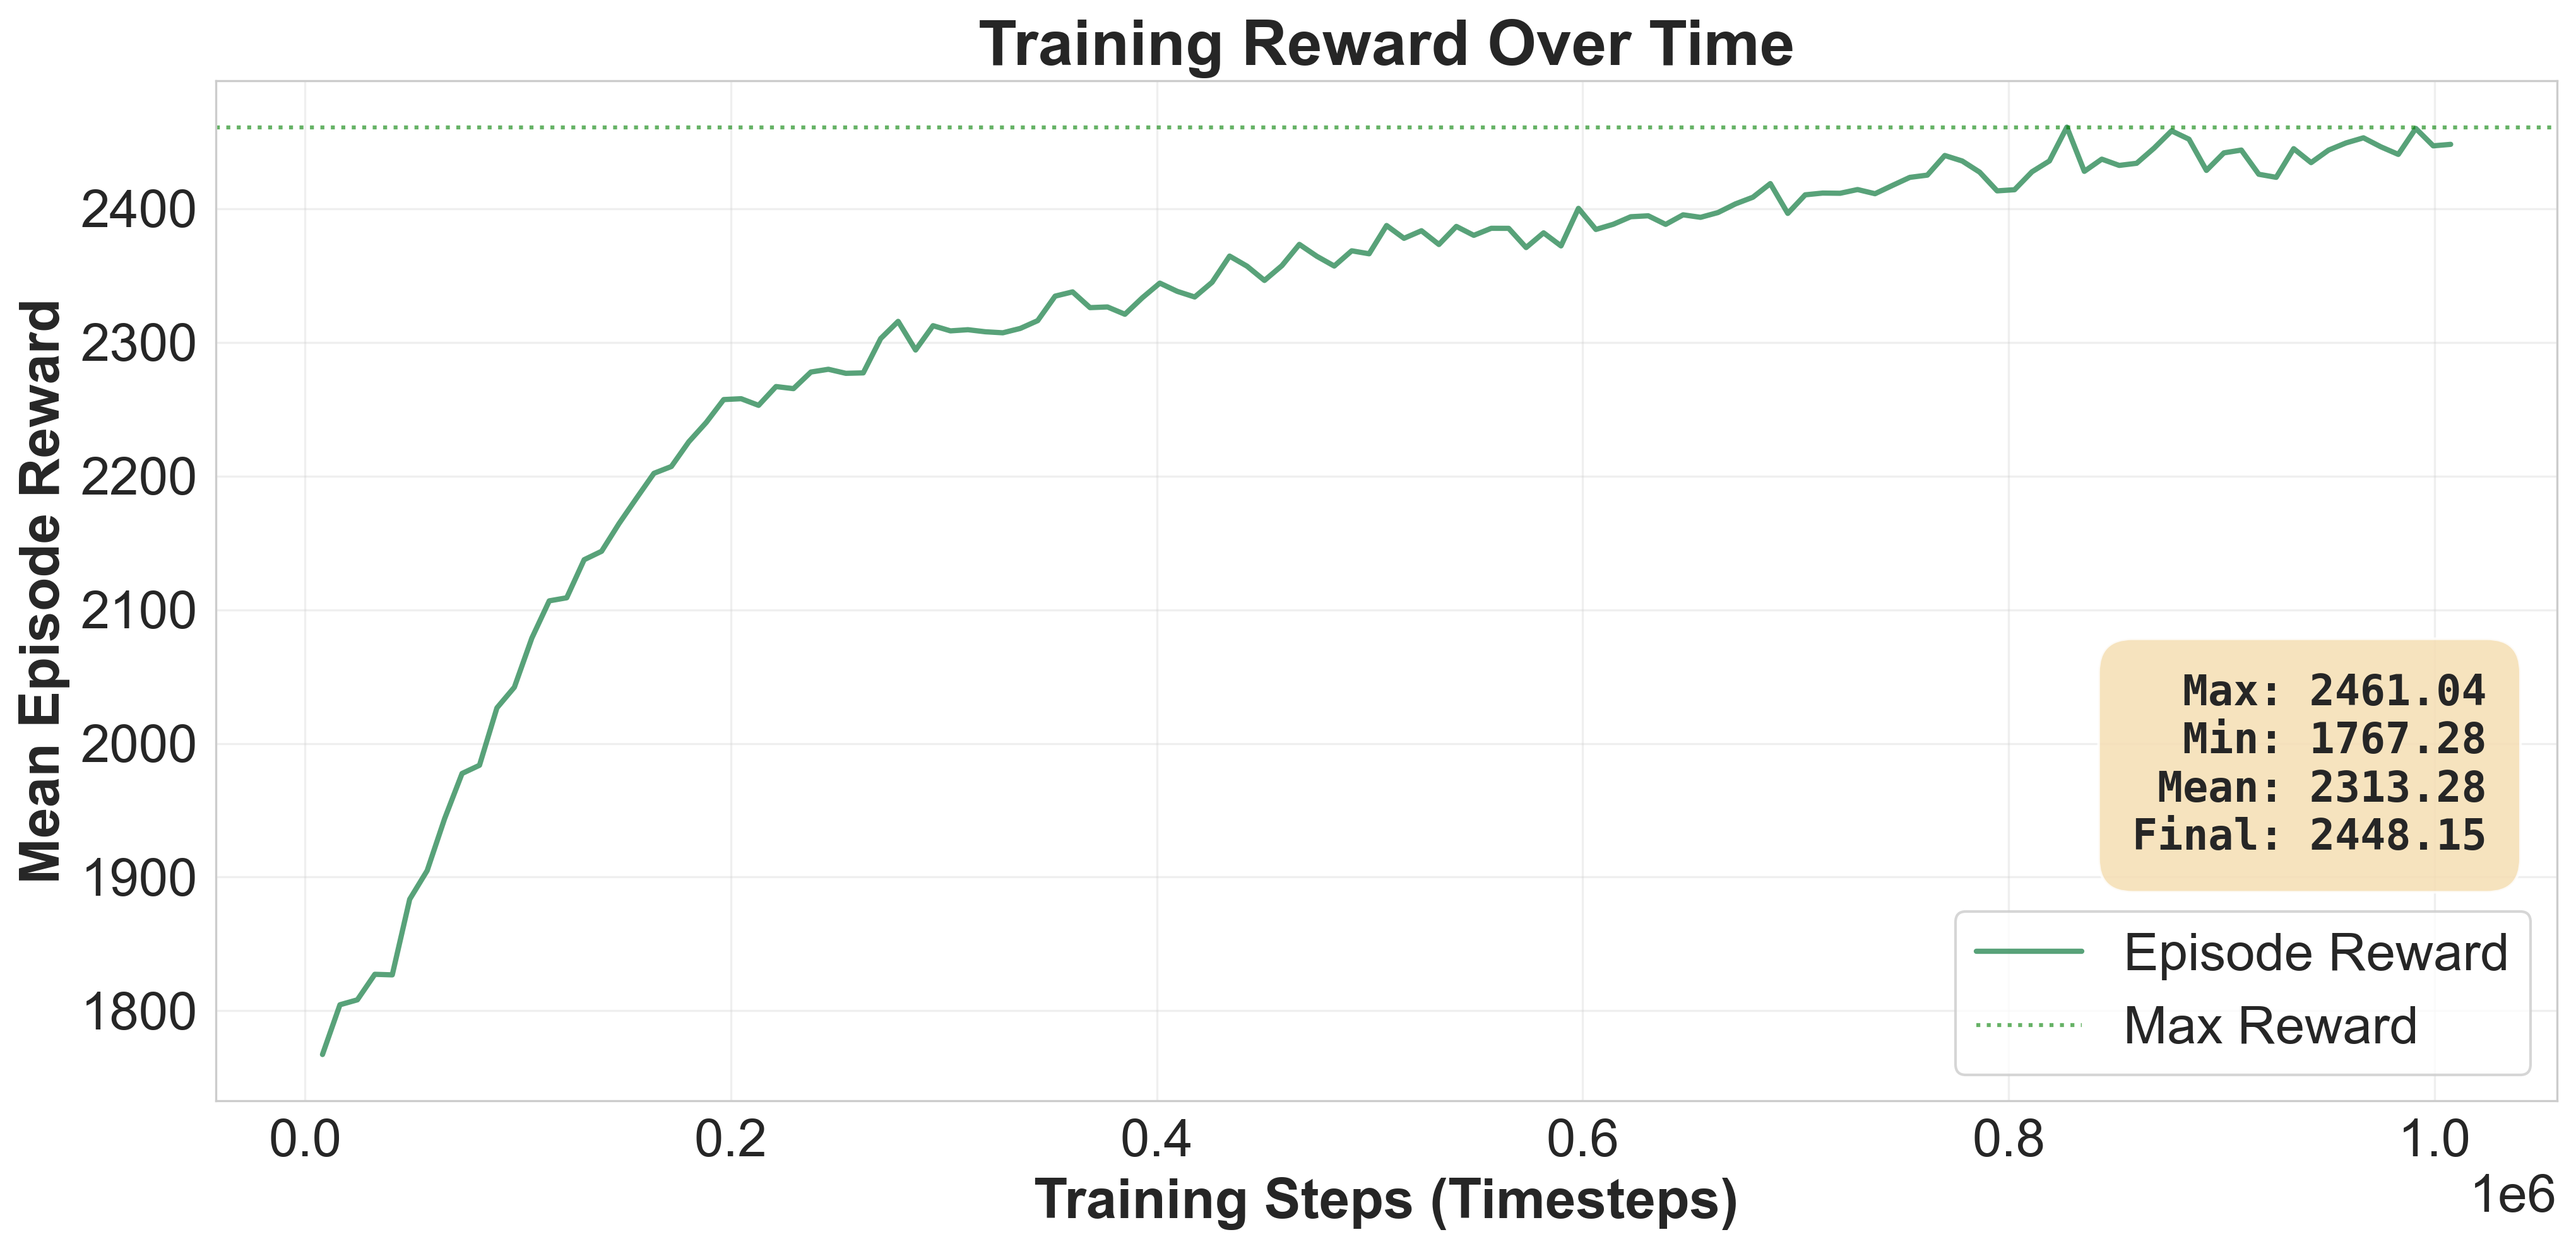
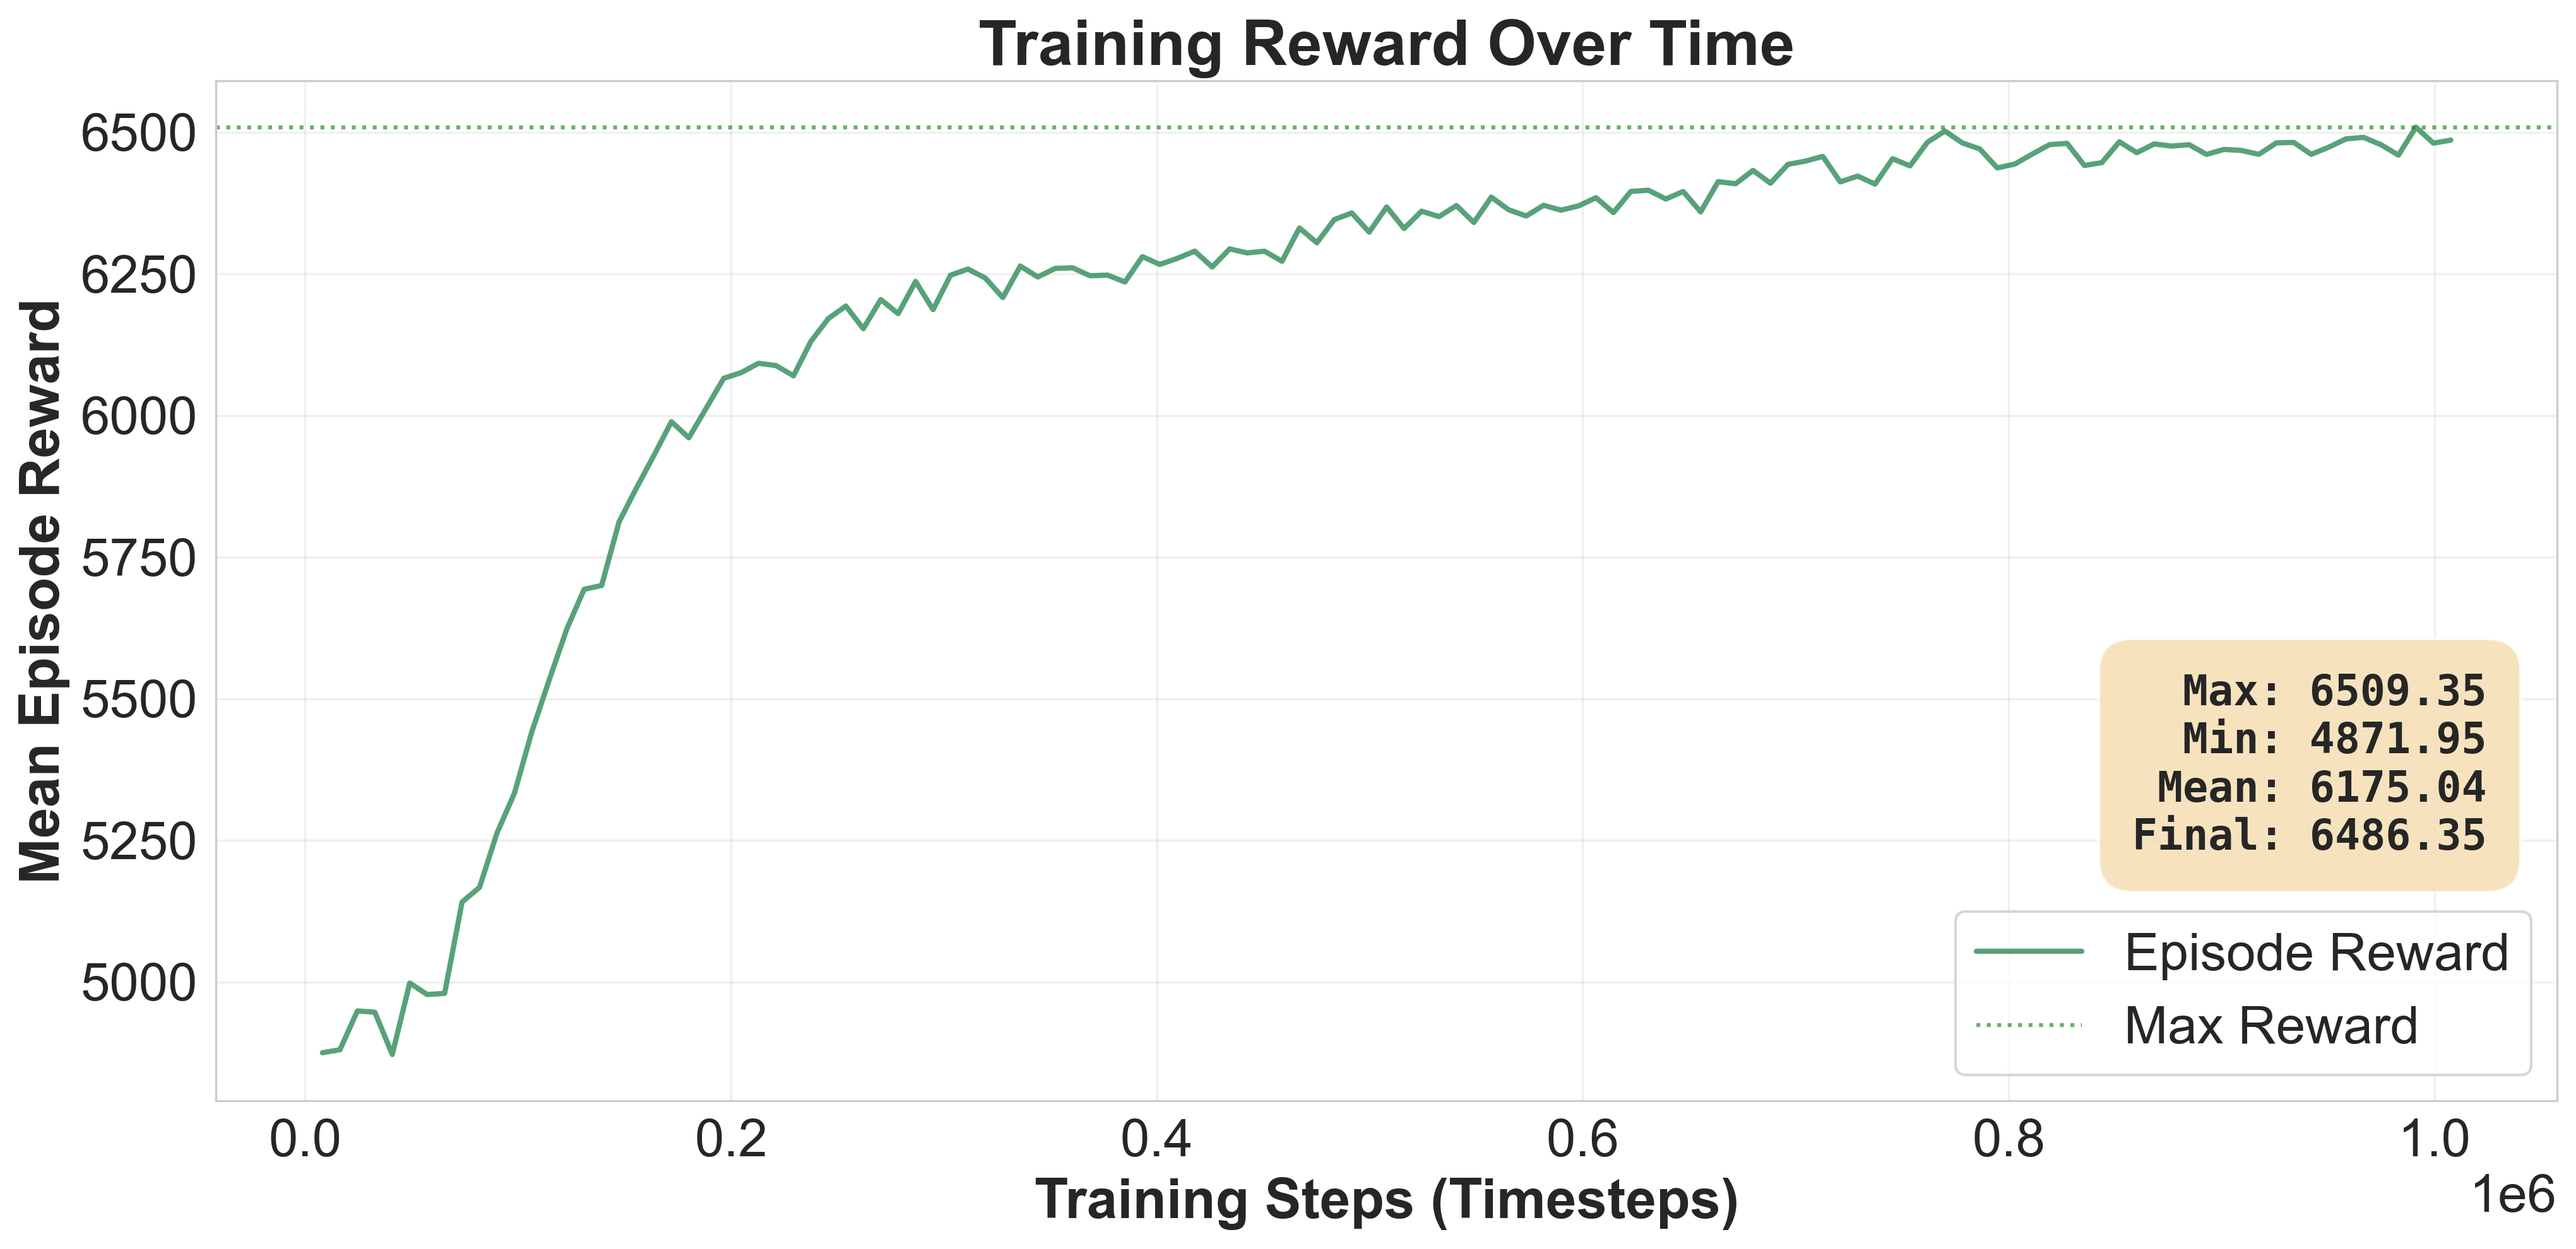
sad

diff --git a/RL_agent/vpp_env.py b/RL_agent/vpp_env.py
@@ -370,7 +370,7 @@ class UrbanVPPEnv(gym.Env):
         if 6 <= hour < 18 and net_solar_surplus > 0:
             # During daytime with solar surplus - force home batteries to charge
             home_batt_avg_soc = np.mean([self.soc[0], self.soc[1]])
-            if home_batt_avg_soc < 0.75:
+            if home_batt_avg_soc < 0.8:
                 # Home batteries not full - share solar surplus with them
                 # Reduce BESS charge intensity to allow home batteries to charge from solar
                 total_home_batt_soc = self.soc[0] + self.soc[1]
@@ -442,9 +442,9 @@ class UrbanVPPEnv(gym.Env):
                 else:
                     # No daytime solar surplus expected - charge from grid during off-peak
                     # For solar unavailable days, MUST charge BESS fully since no daytime solar backup
-                    if bess_soc < 0.7:
-                        # Calculate how much charge is needed (target 0.75 for peak discharge)
-                        energy_deficit = (0.75 - bess_soc) * self.bess_cap  # kWh needed
+                    if bess_soc < 0.8:
+                        # Calculate how much charge is needed (target 0.8 for peak discharge)
+                        energy_deficit = (0.8 - bess_soc) * self.bess_cap  # kWh needed
                         
                         # Calculate remaining off-peak hours for charging (11pm-6am = 7 hours max)
                         if hour >= 23:
@@ -530,7 +530,7 @@ class UrbanVPPEnv(gym.Env):
                 # DAYTIME: Reduce discharge intensity if solar production is high (leads to overvoltage)
                 if total_solar > 0.8 * self.remaining_demand:  # High solar relative to demand
                     # Limit BESS discharge to avoid pushing voltage up
-                    max_bess_discharge = 0.5 * p_max  # Cap at 50% of max power
+                    max_bess_discharge = 0.2 * p_max  # Cap at 20% of max power
                     desired_power = min(desired_power, max_bess_discharge)
                     if self.verbose:
                         print(f"[LIMIT_DISCHARGE] Hour {(self.current_step % 96)/4:.1f}: Limited BESS discharge to {desired_power:.1f}kW (high solar)")
@@ -572,7 +572,7 @@ class UrbanVPPEnv(gym.Env):
                     desired_power = 0.0  # Block discharge outside peak - save for expensive hours
             
             # --- CONSTRAINT 5: Block all battery charging between 11pm-12am ---
-            if 23 <= hour < 24 and desired_power < 0:
+            if 18 <= hour < 24 and desired_power < 0:
                 desired_power = 0.0  # No charging allowed between 11pm-12am
             
             # Limit discharge to actual remaining demand
@@ -719,26 +719,25 @@ class UrbanVPPEnv(gym.Env):
             
             if net_solar_surplus > 0:
                 # Solar surplus available: reward for charging from excess solar
-                # Reduced coefficient from 50 to 25 for stability
-                daytime_solar_bonus += 25.0 * (-total_charge_power)
+                
+                daytime_solar_bonus += 30.0 * (-total_charge_power)
                 
                 # Extra incentive for BESS to absorb community solar (priority target)
                 bess_charge_power = np.minimum(0, self.node_battery_power_kw[self.bess_index])
                 surplus_factor = min(1.0, net_solar_surplus / 20.0)
-                # Reduced from 75 to 35 for stability
                 daytime_solar_bonus += 35.0 * (-bess_charge_power) * (1.0 + surplus_factor)
                 
                 # SOLAR WASTE PENALTY: Penalize exported solar when batteries have available capacity
                 # Only penalize if batteries are not nearly full
                 avg_soc = np.mean(self.soc)
-                if avg_soc < 0.75:  # Batteries have room to charge
+                if avg_soc < 0.8:  # Batteries have room to charge
                     # Calculate solar wasted (surplus not captured in batteries)
                     solar_wasted = net_solar_surplus - (-total_charge_power)
-                    if solar_wasted > 0.5:  # Only penalize meaningful waste
+                    if solar_wasted > 0.2:  # Only penalize meaningful waste
                         # Reduced from 50 to 25 LKR per kW wasted
-                        solar_waste_penalty = -25.0 * solar_wasted
+                        solar_waste_penalty = -30.0 * solar_wasted
                         if self.verbose:
-                            print(f"[SOLAR_WASTE] Hour {hour:.1f}: {solar_wasted:.2f}kW solar exported despite {(0.75-avg_soc):.2%} battery capacity available → Penalty -{25.0*solar_wasted:.0f}")
+                            print(f"[SOLAR_WASTE] Hour {hour:.1f}: {solar_wasted:.2f}kW solar exported despite {(0.8-avg_soc):.2%} battery capacity available → Penalty -{30.0*solar_wasted:.0f}")
             else:
                 # NO solar surplus - penalize BESS discharge during daytime to save for peak hours
                 bess_discharge_power = np.maximum(0, self.node_battery_power_kw[self.bess_index])
@@ -760,11 +759,12 @@ class UrbanVPPEnv(gym.Env):
         # Strategy: Discharge at HIGH prices to maximize revenue at peak demand times
         # Peak discharge value = 45 LKR sell price (much higher than daytime 19 LKR)
         peak_bonus = 0.0
+        peak_charge_penalty = 0.0  # NEW: Penalize charging during peak hours
         if 18 <= hour < 23:  # Evening peak hours (6pm-11pm)
             if np.mean(self.soc) > 0.3:  # Only discharge if battery has energy
                 total_discharge_power = np.sum(np.maximum(0, self.node_battery_power_kw))
-                # Reduced peak bonus coefficient from 45 to 25 for stability
-                peak_bonus = 25.0 * total_discharge_power
+                
+                peak_bonus = 35.0 * total_discharge_power
         
         # ----- SECTION 3: OFF-PEAK (11pm-6am) -----
         # Strategy: HOME batteries and BESS can charge at cheap rates (21 LKR)
@@ -774,7 +774,7 @@ class UrbanVPPEnv(gym.Env):
         if hour < 6:  # Off-peak hours (12am-6am only)
             # HOME BATTERY CHARGING
             home_batt_soc = [self.soc[0], self.soc[1]]  # Home batteries only
-            if np.mean(home_batt_soc) < 0.7:  # Room to charge
+            if np.mean(home_batt_soc) < 0.8:  # Room to charge
                 home_charge_power = self.node_battery_power_kw[3] + self.node_battery_power_kw[5]
                 home_charge_power = min(0, home_charge_power)  # Negative when charging
                 
@@ -796,7 +796,7 @@ class UrbanVPPEnv(gym.Env):
                         expected_surplus = expected_solar - expected_load
                         
                         home_capacity = 2 * self.home_batt_cap
-                        energy_needed = home_capacity * (0.75 - np.mean(home_batt_soc))
+                        energy_needed = home_capacity * (0.8 - np.mean(home_batt_soc))
                         
                         # If solar can provide 90%+ of needed energy, don't use grid
                         if expected_surplus > energy_needed * 0.9:
@@ -805,10 +805,10 @@ class UrbanVPPEnv(gym.Env):
                 # Decision based on solar forecast (only for home batteries)
                 if solar_will_be_sufficient:
                     # PENALTY: Don't charge from grid, save capacity for solar
-                    offpeak_bonus = 4.0 * home_charge_power  # Reduced from 8 to 4
+                    offpeak_bonus = 4.0 * home_charge_power  
                 else:
                     # REWARD: Charge at cheap off-peak rates (solar won't be enough)
-                    offpeak_bonus = -8.0 * home_charge_power  # Reduced from -15 to -8
+                    offpeak_bonus = -8.0 * home_charge_power  
             
             # BESS OFF-PEAK CHARGING - Predictive Strategy
             # Reward BESS for intelligently pre-charging based on daytime solar forecast
@@ -940,7 +940,7 @@ class UrbanVPPEnv(gym.Env):
         
         # Reward normalization and clipping for stability
         # Divide by higher value and clip to [-10, 10] range for stable learning
-        reward = reward / 10.0  # Normalized divisor for better gradient scaling
+        reward = reward / 5.0  # Normalized divisor for better gradient scaling
         #reward = np.clip(reward, -20.0, 20.0)  # Allow wider range for better signal
         
         # Debug output for reward analysis (only when verbose)

diff --git a/RL_agent/train.py b/RL_agent/train.py
@@ -123,13 +123,13 @@ def main():
         verbose=1,
         learning_rate=linear_schedule(3e-4),  # Reduced initial LR for stability
         gamma=0.995,                 # Balanced discount factor
-        gae_lambda=0.98,            # Stronger GAE smoothing for stability
+        gae_lambda=0.95,            # Stronger GAE smoothing for stability
         clip_range=0.2,             # Increased clip range to reduce instability
-        clip_range_vf=0.3,          # Value function clipping
-        n_epochs=15,                # More epochs for better convergence
+        clip_range_vf=0.2,          # Value function clipping
+        n_epochs=10,                # More epochs for better convergence
         n_steps=2048,               # Steps per environment before update
-        batch_size=64,             # Larger batch size for stability
-        ent_coef=0.01,              # Entropy coefficient for exploration
+        batch_size=128,             # Larger batch size for stability
+        ent_coef=0.005,              # Entropy coefficient for exploration
         vf_coef=0.5,                # Value function coefficient
         max_grad_norm=1.0,          # Increased gradient clipping threshold
         policy_kwargs=policy_kwargs,
